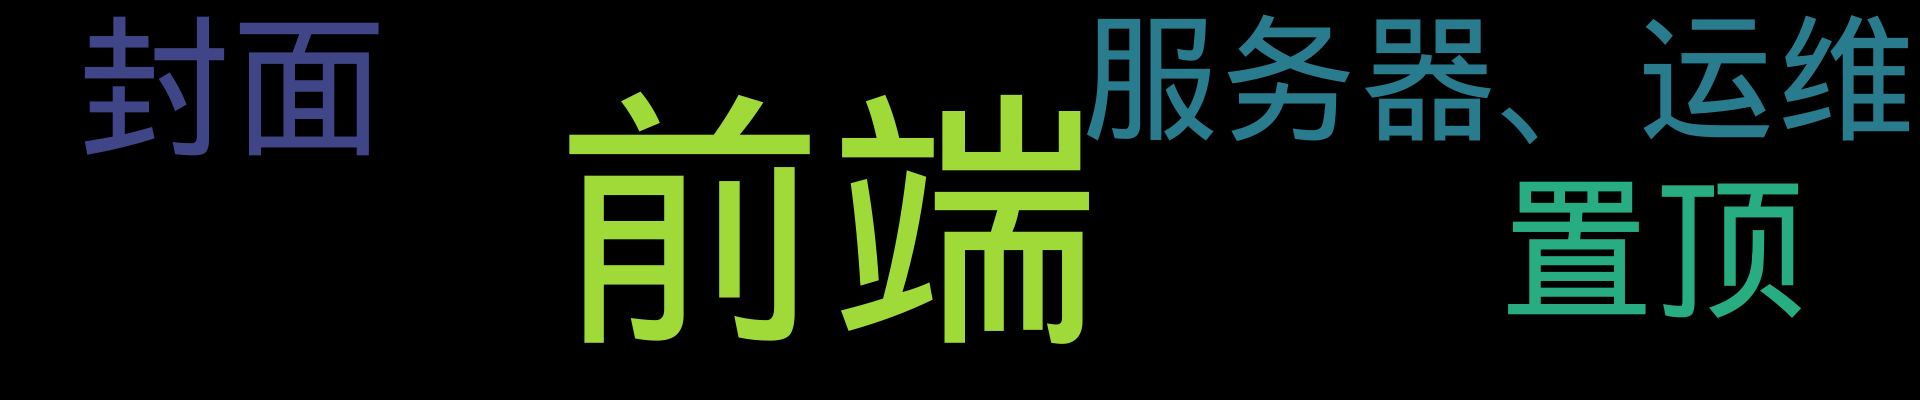
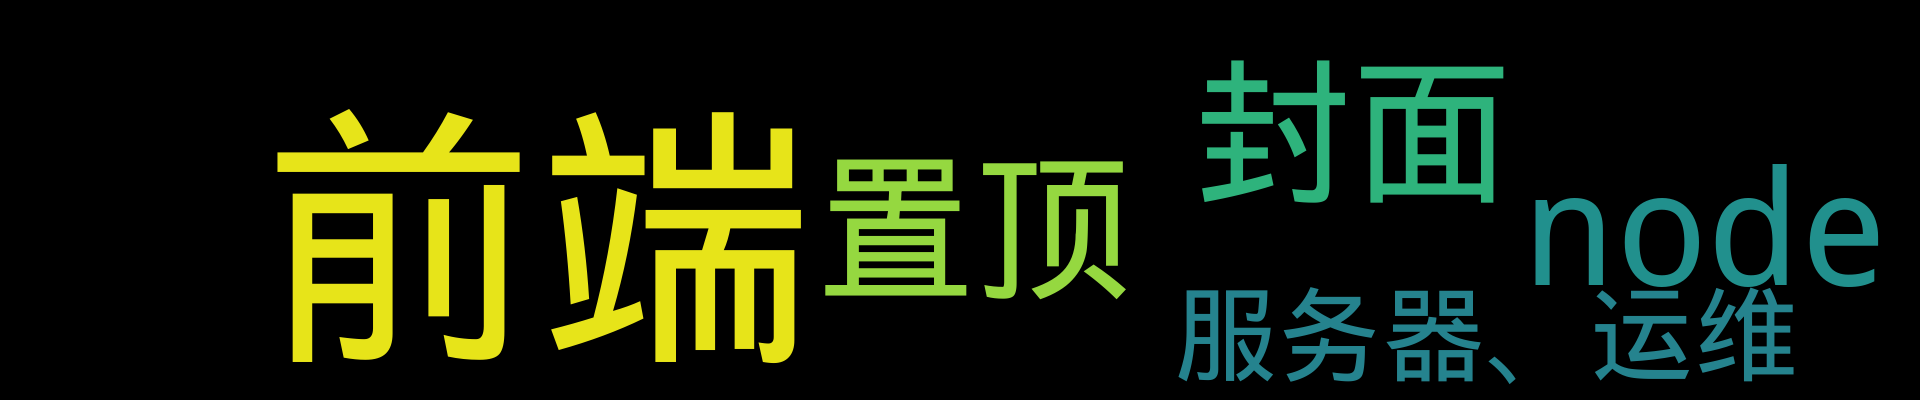
Update from Github Action

Changed region(s): [[0.0312, 0.03, 1.0, 0.96], [0.8438, 0.03, 1.0, 0.36]]

diff --git a/README.md b/README.md
@@ -3,7 +3,7 @@
 <p align='center'>
     <img src="https://badgen.net/badge/labels/8"/>
     <img src="https://badgen.net/github/issues/Sweet-KK/blog"/>
-    <img src="https://badgen.net/badge/last-commit/2021-06-06 08:46:25"/>
+    <img src="https://badgen.net/badge/last-commit/2021-06-06 08:47:23"/>
     <img src="https://badgen.net/github/forks/Sweet-KK/blog"/>
     <img src="https://badgen.net/github/stars/Sweet-KK/blog"/>
     <img src="https://badgen.net/github/watchers/Sweet-KK/blog"/>
@@ -23,7 +23,7 @@
 
 #### [使用node发送验证码到手机或邮箱做校验](https://github.com/Sweet-KK/blog/issues/11) <sup>0 :speech_balloon:</sup> 	 2021-06-06 08:45:52
 
-:label: : [前端](https://github.com/Sweet-KK/blog/labels/%E5%89%8D%E7%AB%AF)
+:label: : [node](https://github.com/Sweet-KK/blog/labels/node)
 
 date: 2018-08-27
 
@@ -86,7 +86,7 @@ date: 2018-03-04
 ---
 
 
-#### [HTML代码的复用实践](https://github.com/Sweet-KK/blog/issues/7) <sup>0 :speech_balloon:</sup> 	 2021-06-06 08:35:00
+#### [静态页面HTML代码的复用实践](https://github.com/Sweet-KK/blog/issues/7) <sup>0 :speech_balloon:</sup> 	 2021-06-06 08:35:00
 
 :label: : [前端](https://github.com/Sweet-KK/blog/labels/%E5%89%8D%E7%AB%AF)
 
@@ -270,8 +270,9 @@ gulp.task('default', ['server']);
 </details>
 
 <details>
-<summary>node	<sup>0:newspaper:</sup></summary>
+<summary>node	<sup>1:newspaper:</sup></summary>
 
+- [使用node发送验证码到手机或邮箱做校验](https://github.com/Sweet-KK/blog/issues/11)  <sup>0 :speech_balloon:</sup>  	 
 
 
 </details>
@@ -284,13 +285,12 @@ gulp.task('default', ['server']);
 </details>
 
 <details>
-<summary>前端	<sup>8:newspaper:</sup></summary>
+<summary>前端	<sup>7:newspaper:</sup></summary>
 
-- [使用node发送验证码到手机或邮箱做校验](https://github.com/Sweet-KK/blog/issues/11)  <sup>0 :speech_balloon:</sup>  	 
 - [vue-cli 2.0再优化](https://github.com/Sweet-KK/blog/issues/10)  <sup>0 :speech_balloon:</sup>  	 
 - [vue-cli踩坑与优化小记](https://github.com/Sweet-KK/blog/issues/9)  <sup>0 :speech_balloon:</sup>  	 
 - [Grid VS Flexbox](https://github.com/Sweet-KK/blog/issues/8)  <sup>0 :speech_balloon:</sup>  	 
-- [HTML代码的复用实践](https://github.com/Sweet-KK/blog/issues/7)  <sup>0 :speech_balloon:</sup>  	 
+- [静态页面HTML代码的复用实践](https://github.com/Sweet-KK/blog/issues/7)  <sup>0 :speech_balloon:</sup>  	 
 - [干货!各种常见布局+知名网站实例分析+相关阅读推荐](https://github.com/Sweet-KK/blog/issues/5)  <sup>0 :speech_balloon:</sup>  	 
 - [CSS预处理器--Less语法整理](https://github.com/Sweet-KK/blog/issues/4)  <sup>0 :speech_balloon:</sup>  	 
 - [对constructor和prototype的理解](https://github.com/Sweet-KK/blog/issues/3)  <sup>0 :speech_balloon:</sup>  	 
